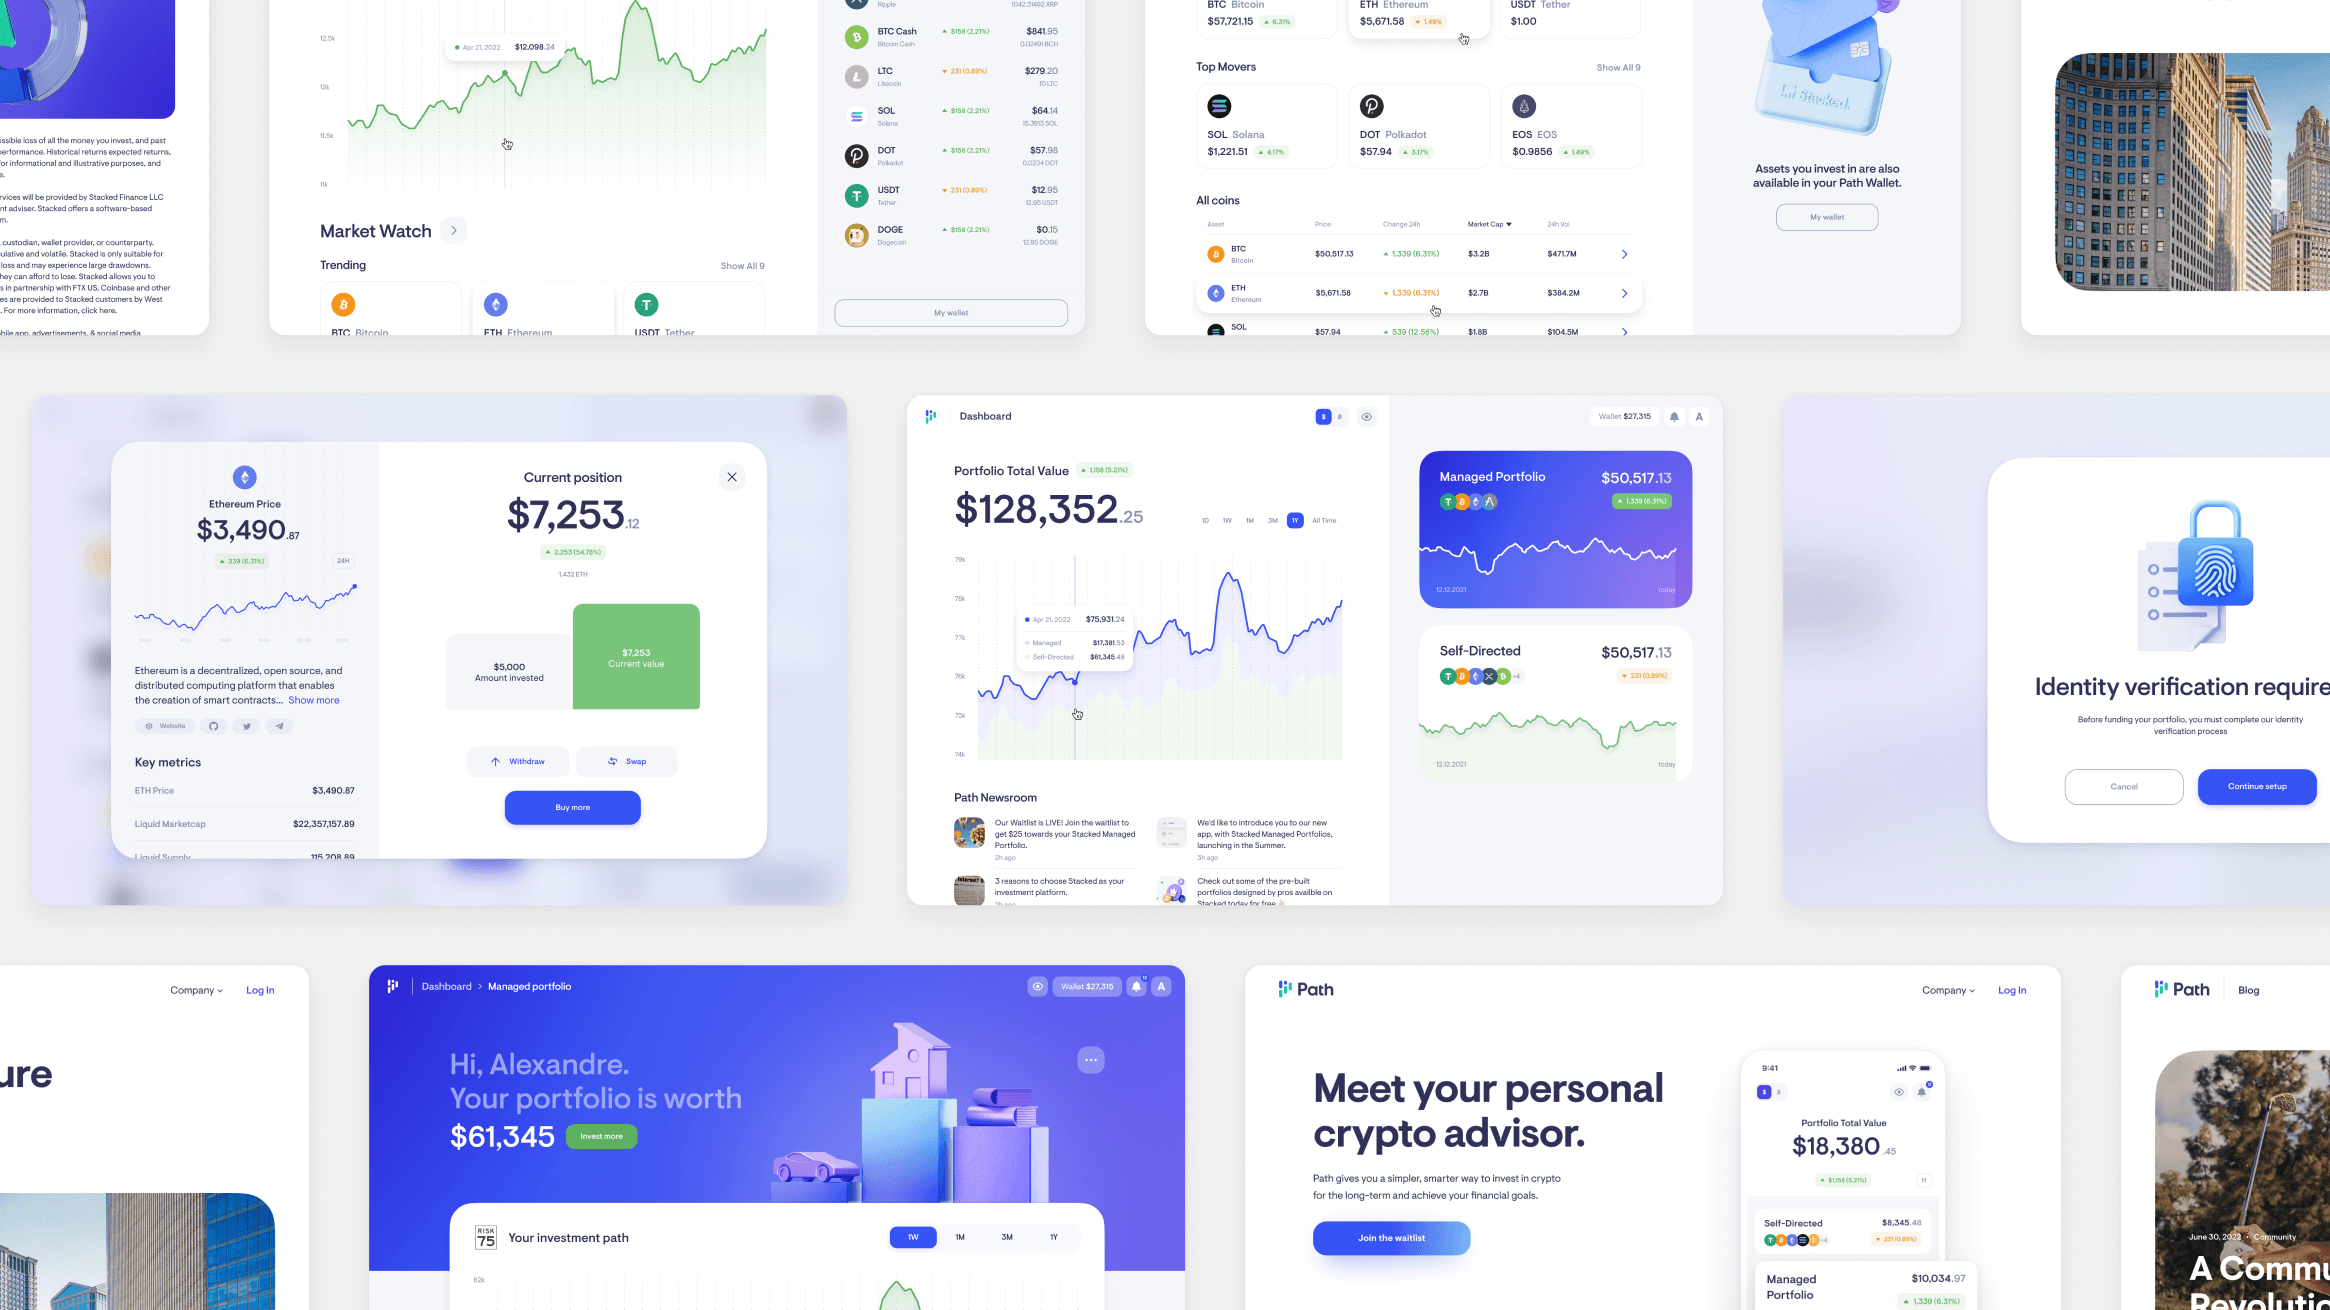
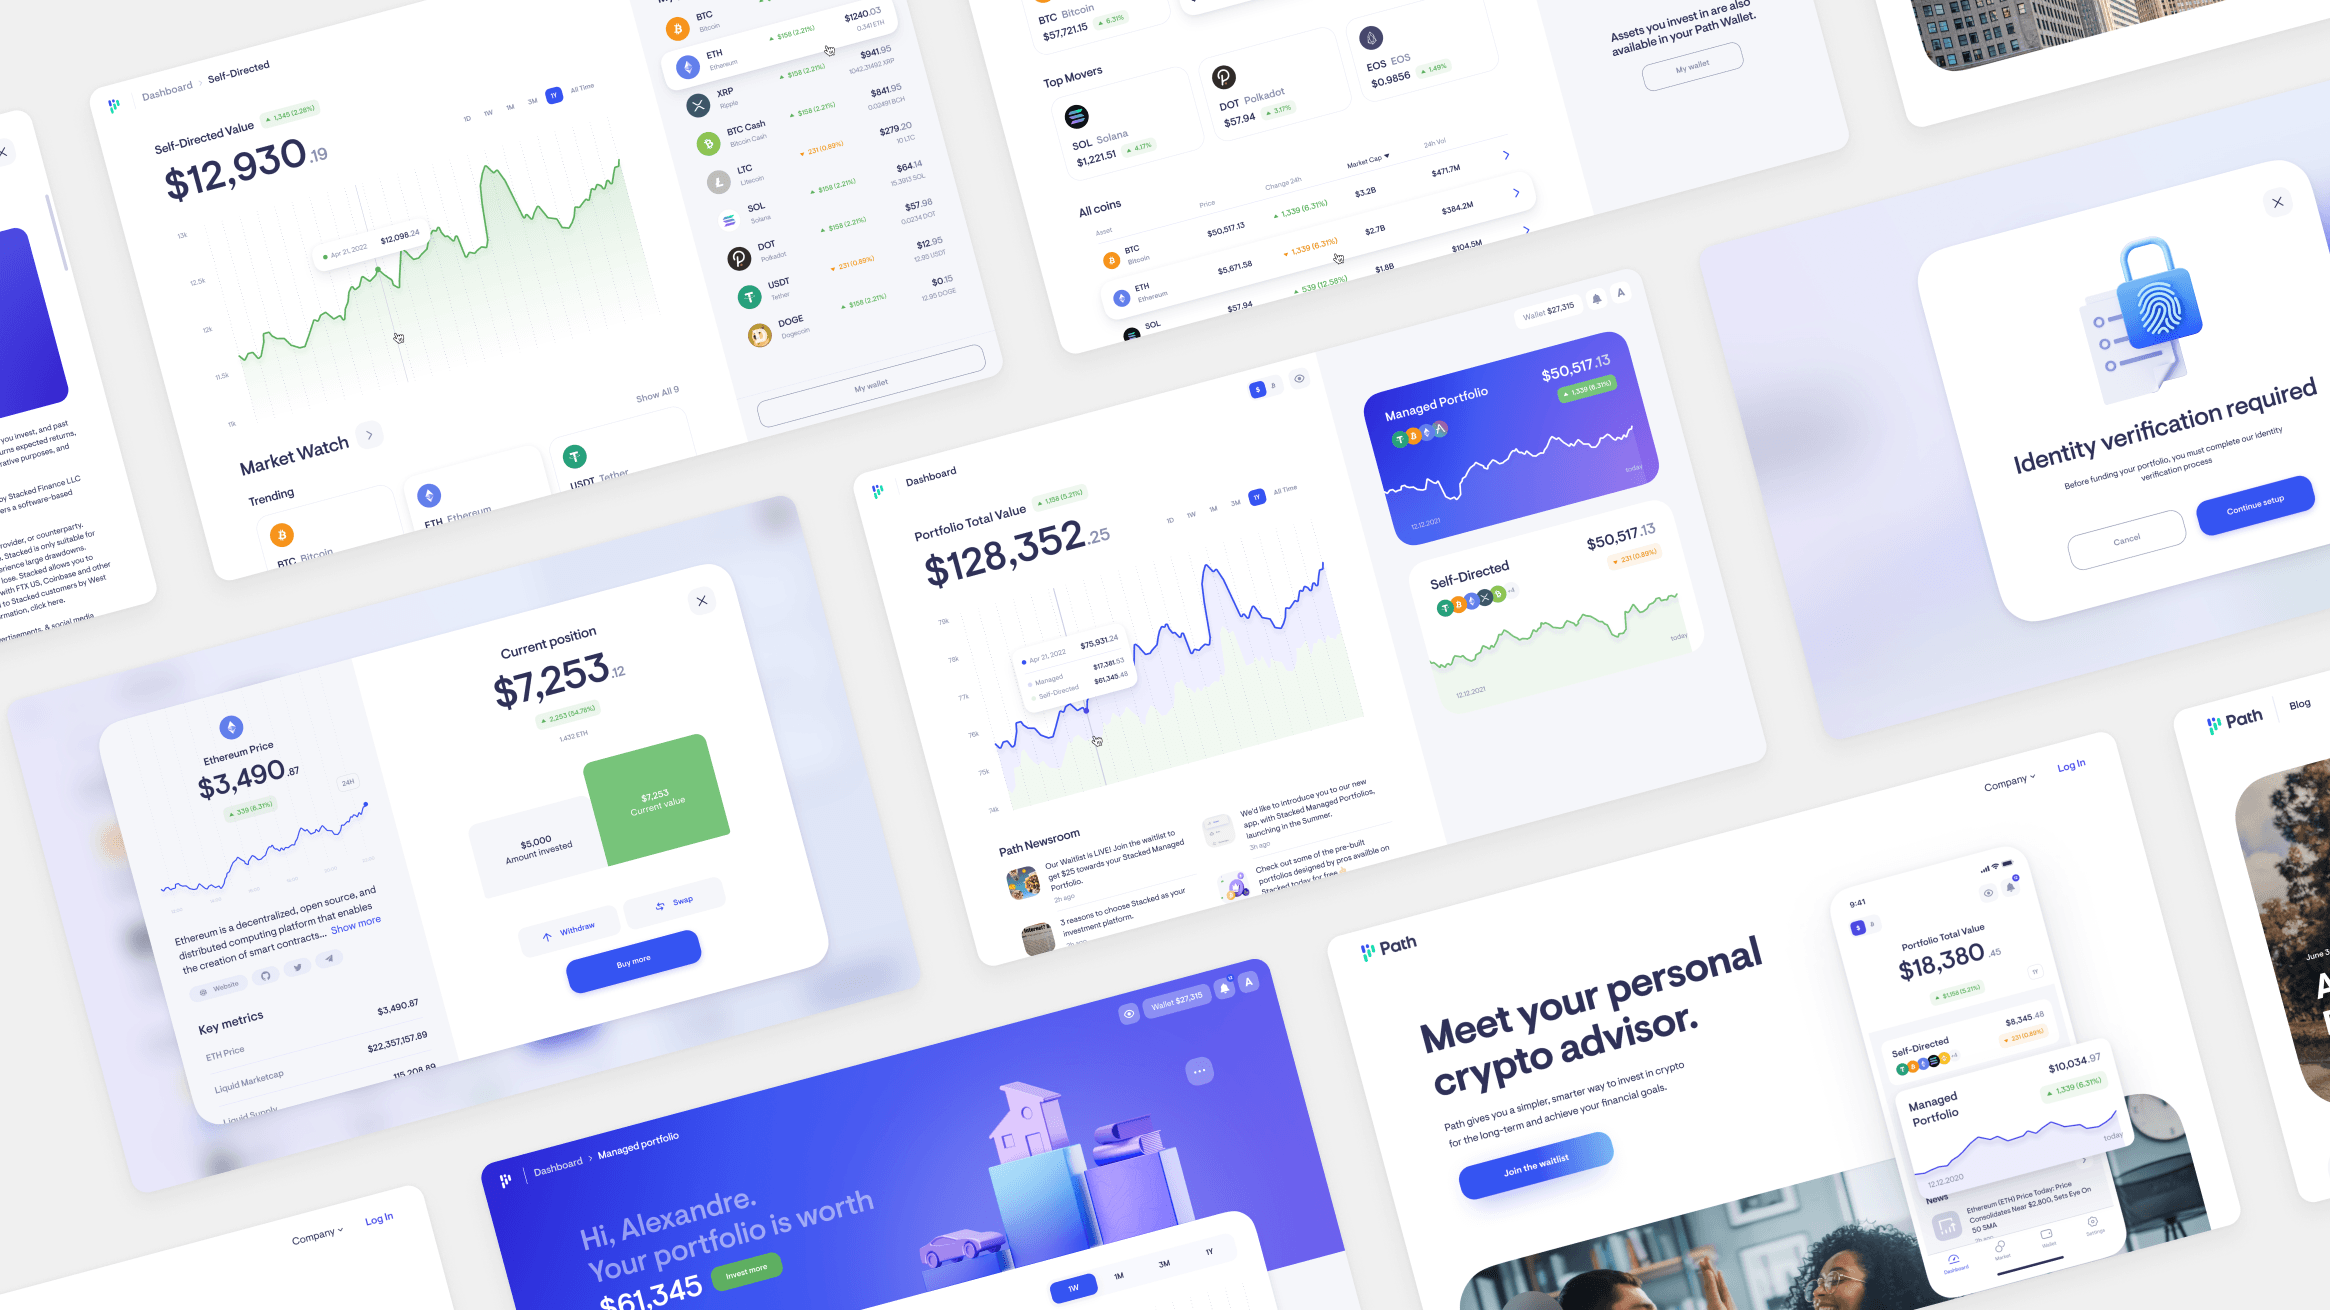
Add video preview to Path Crypto case and update context image

diff --git a/src/config/cases.ts b/src/config/cases.ts
@@ -448,8 +448,13 @@ export const cases = [
     imageAlt: "Path Crypto case preview",
     preview: [
       {
+        type: "video",
+        video: pathCryptoVideo,
+        autoPlay: true,
+      },
+      {
         type: "image",
-        image: pathCryptoImage,
+        image: pathCryptoContextImage,
         imageAlt: "Path Crypto case preview",
       },
     ],
